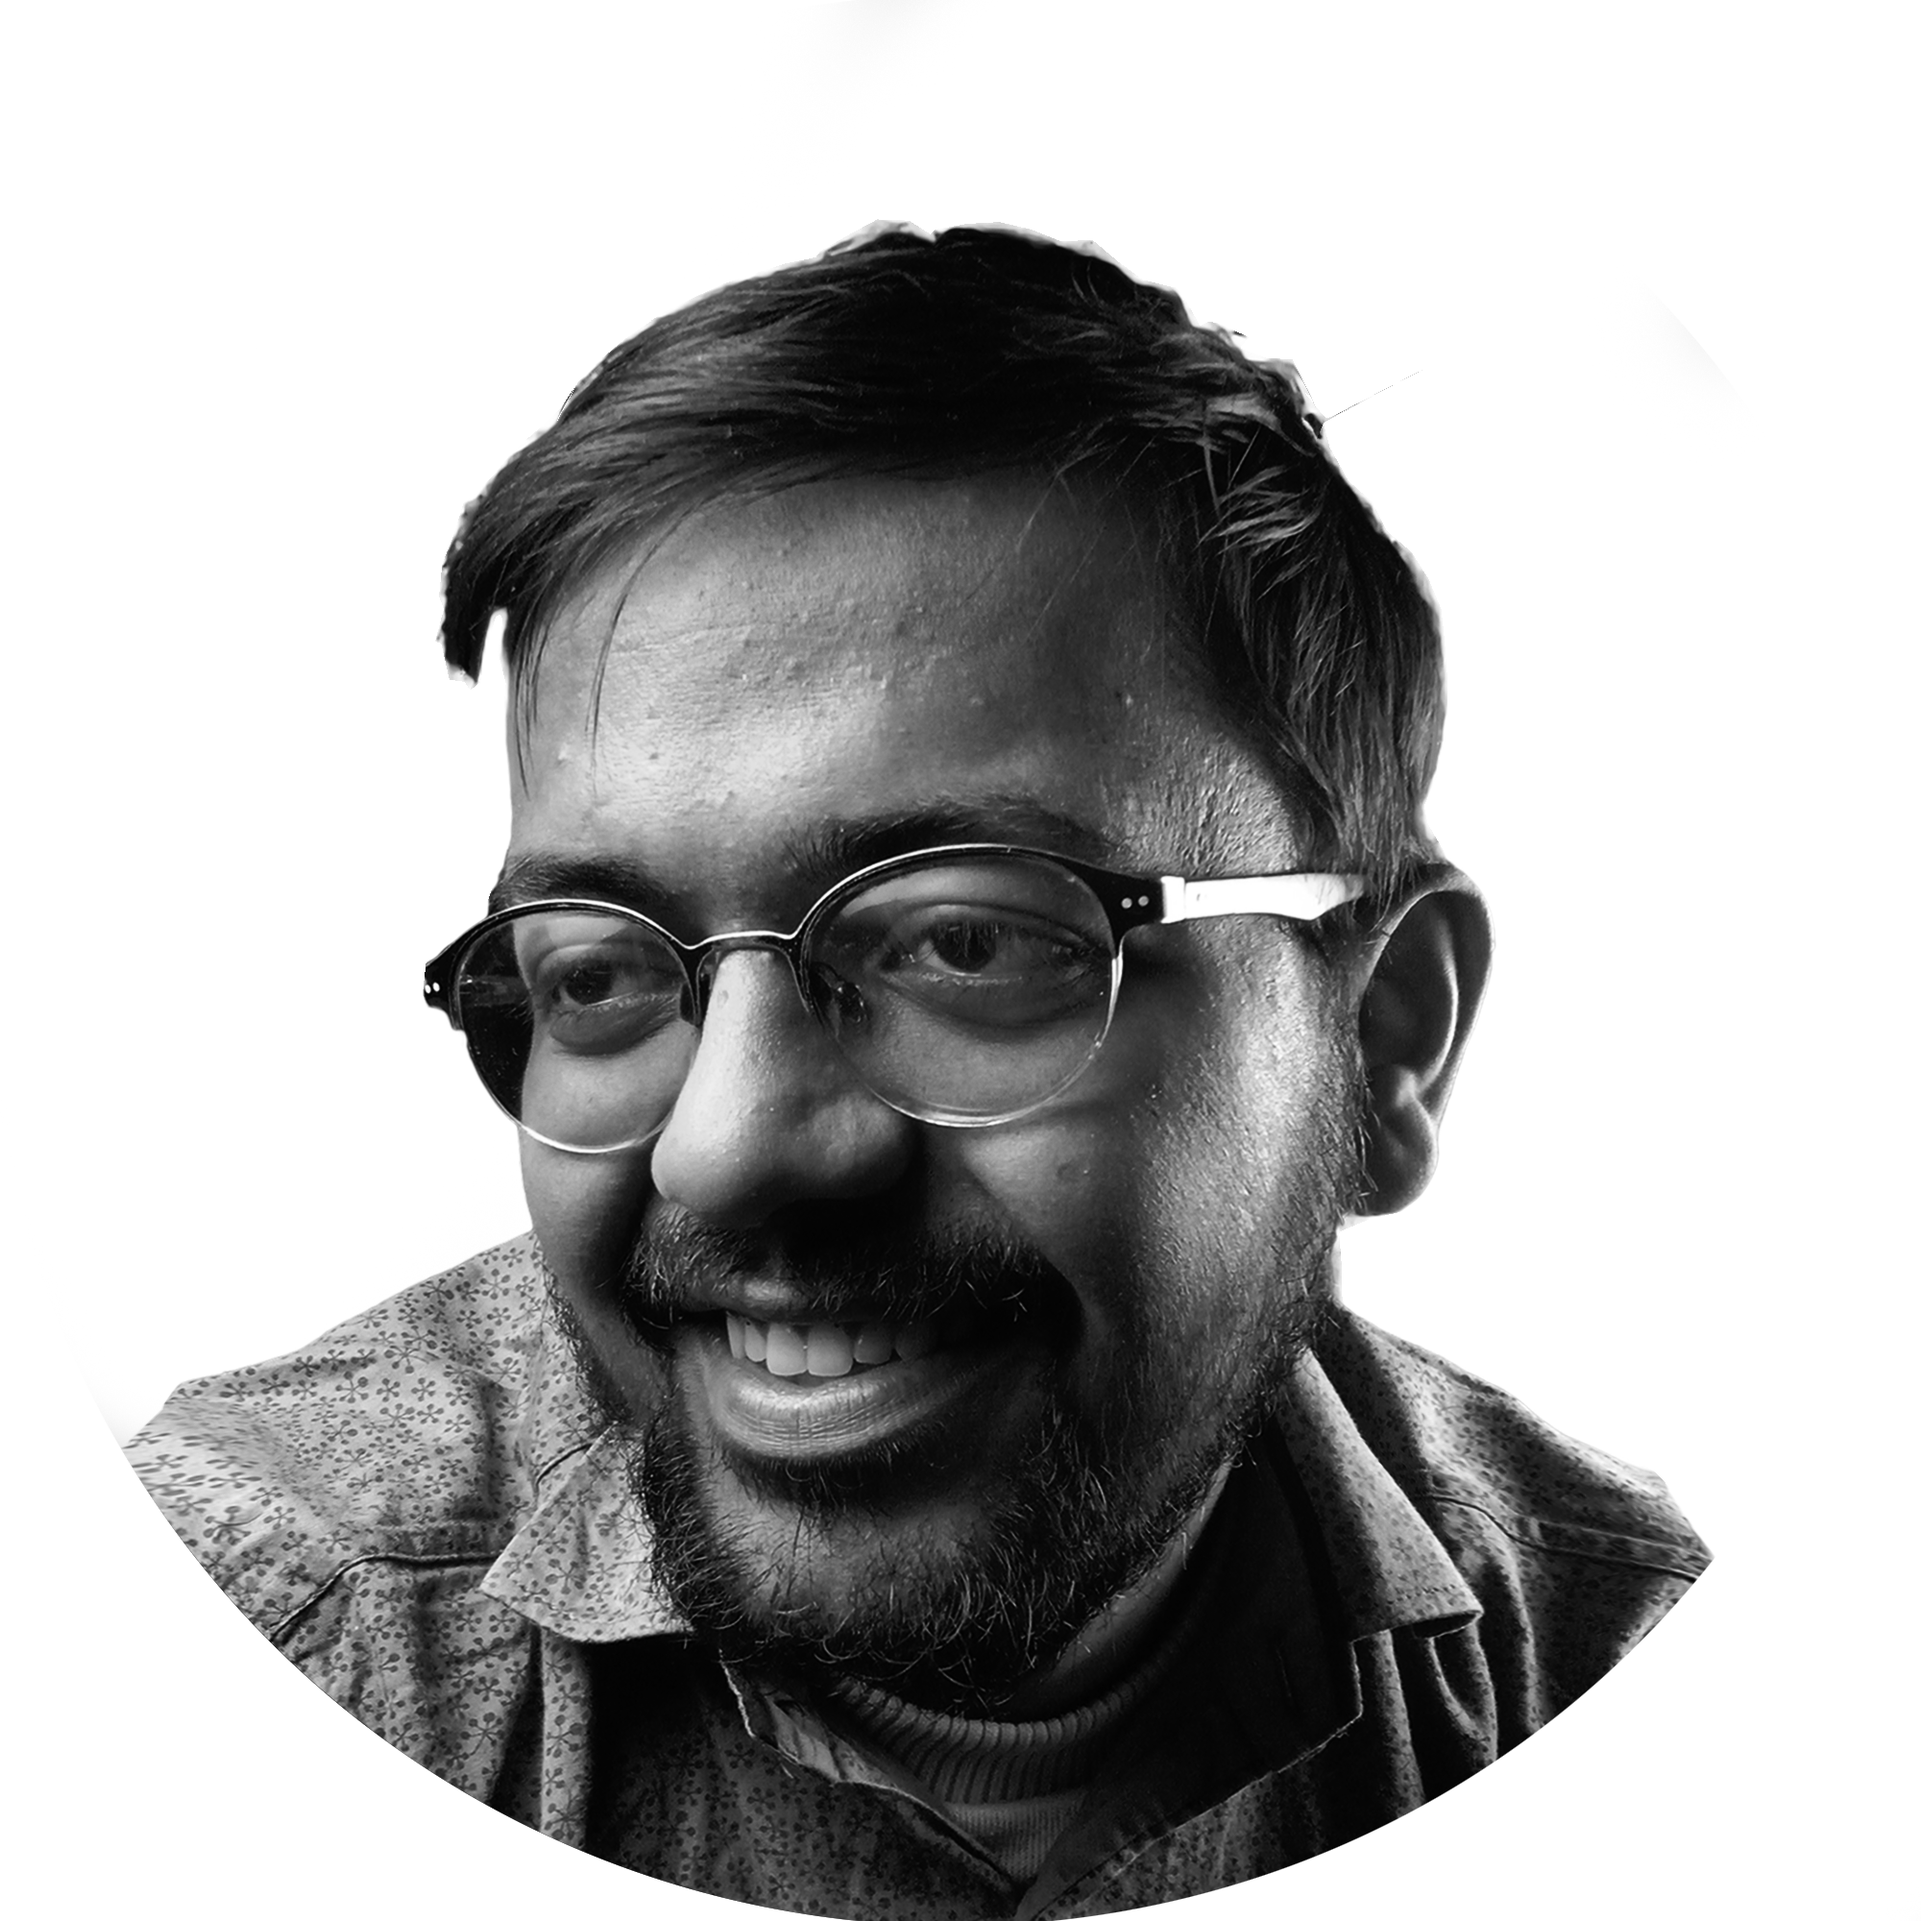
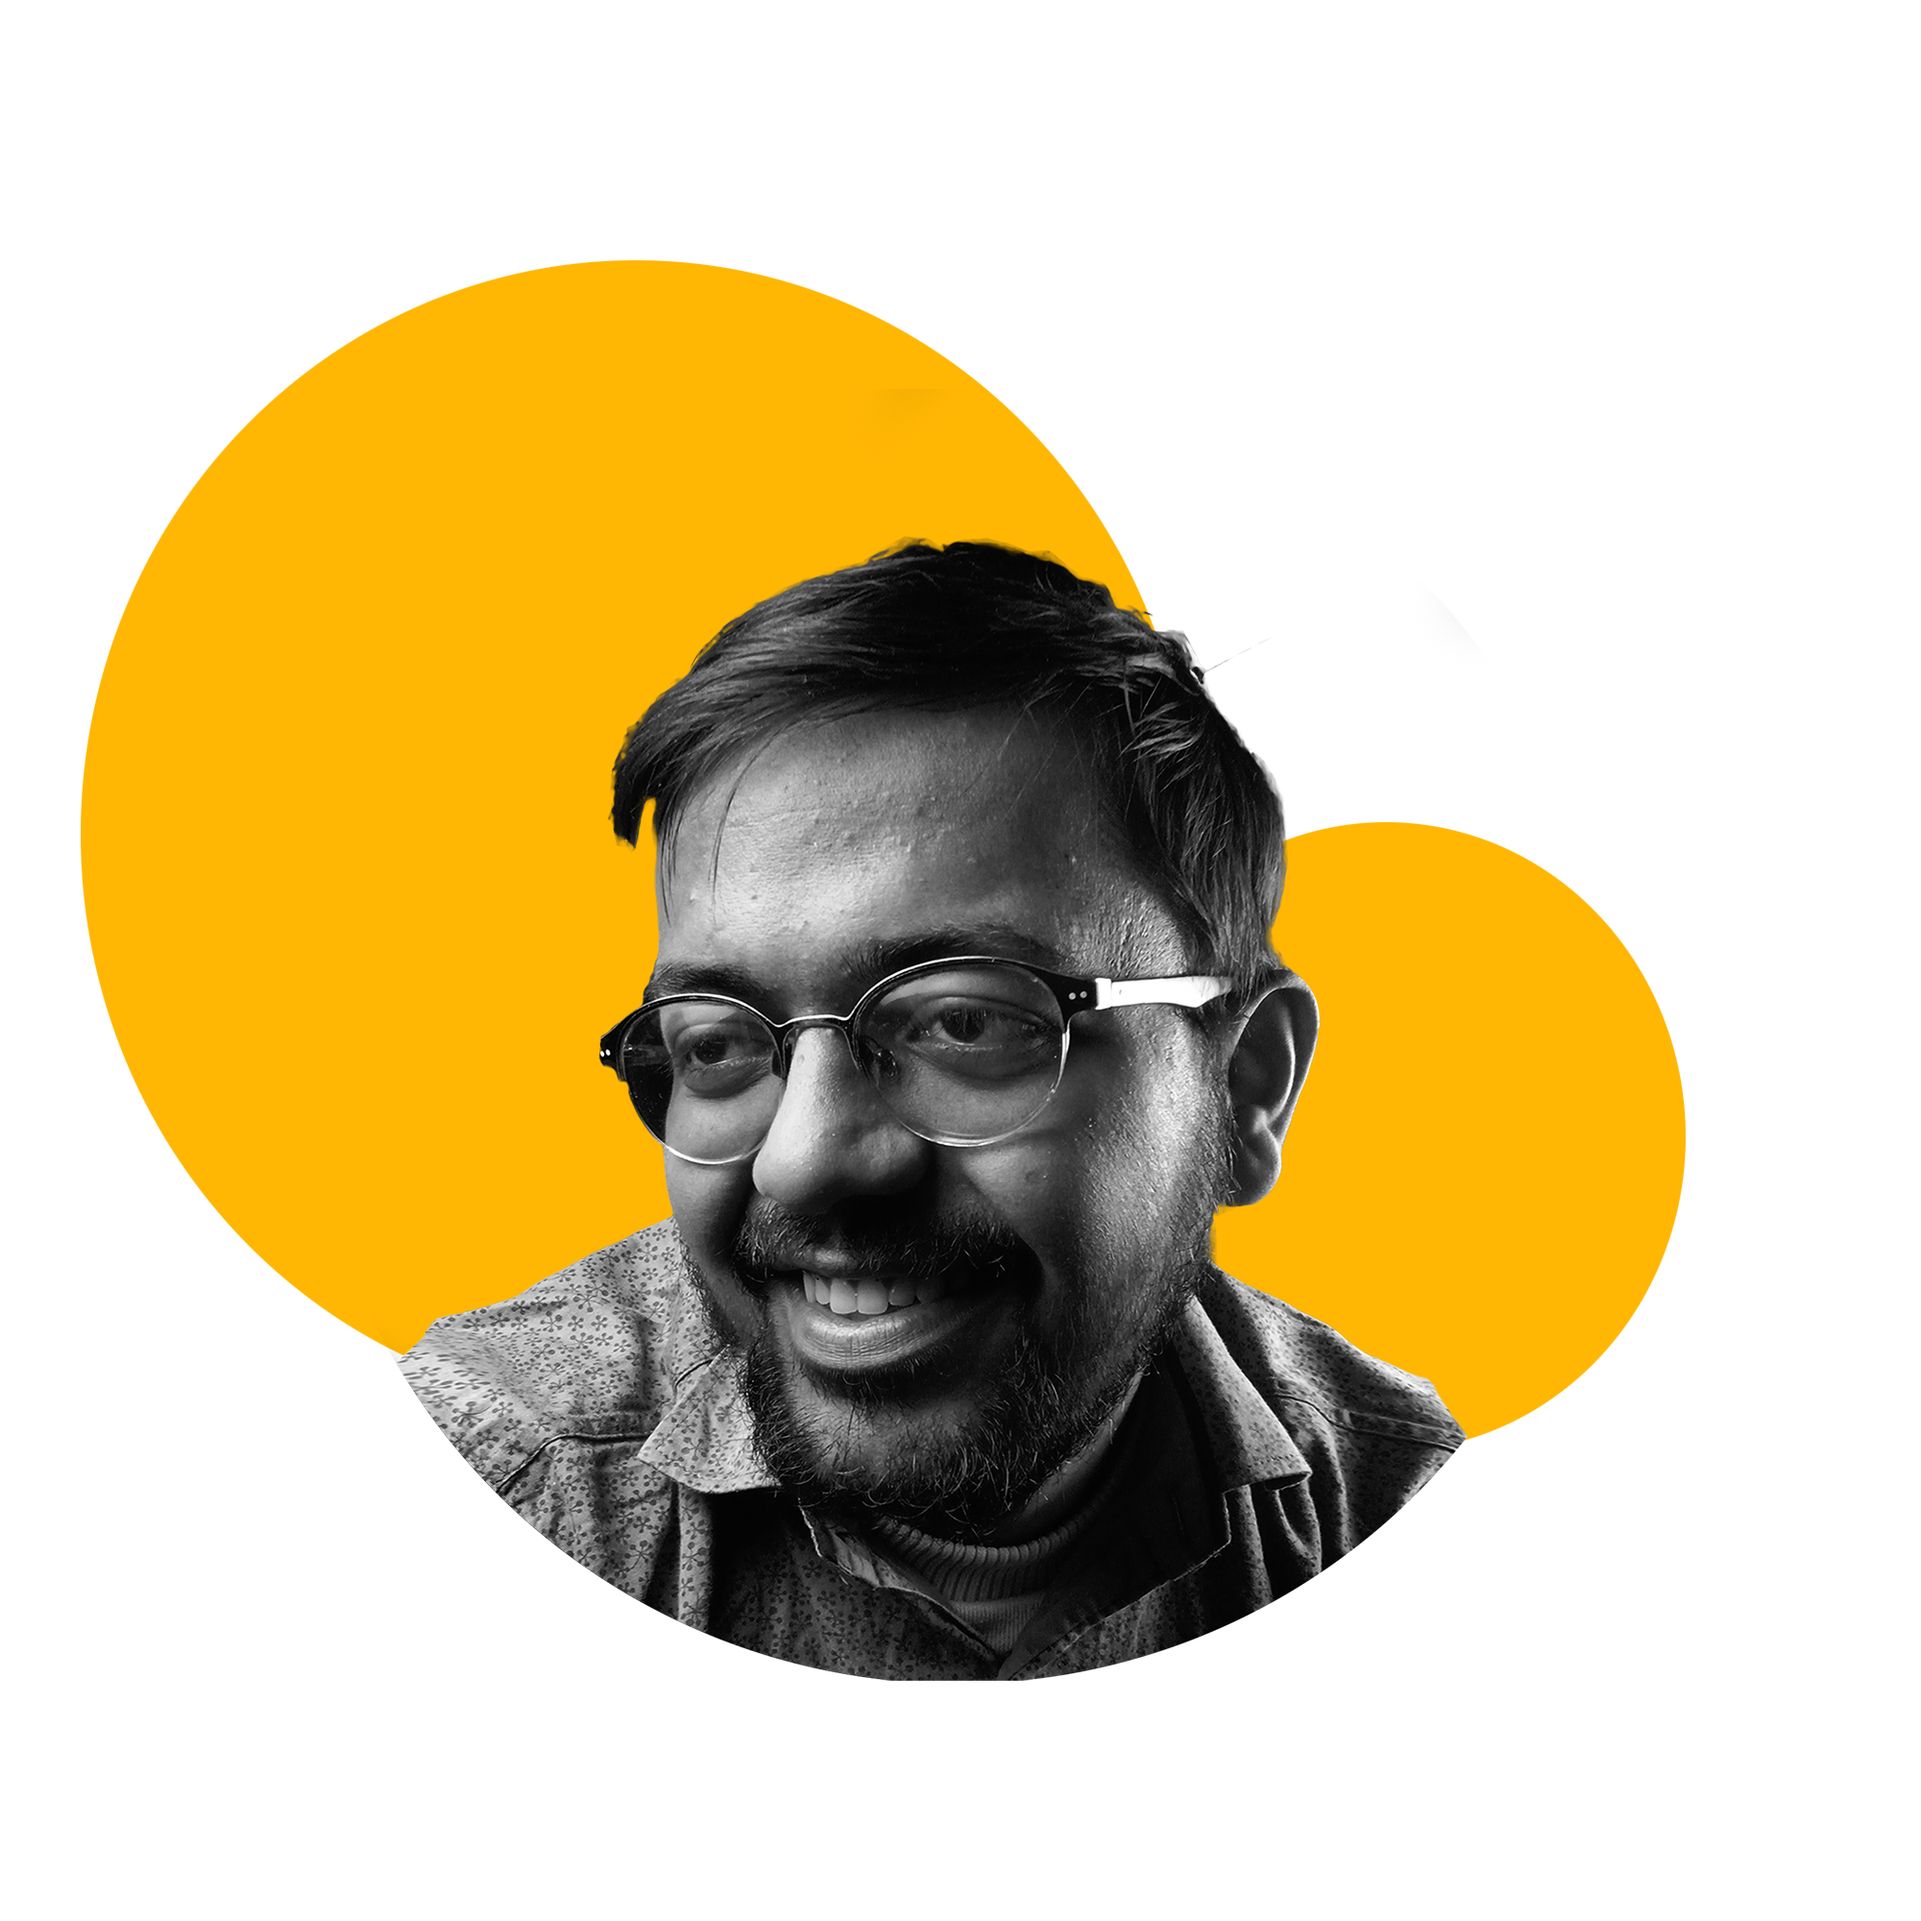
Error correction before deployement

diff --git a/src/app/page.tsx b/src/app/page.tsx
@@ -41,7 +41,7 @@ import {
 
 
 export default function Home() {
-  const [width, setWidth] = useState<number>(window.innerWidth);
+  const [width, setWidth] = useState<number>( typeof window !== 'undefined' ? window.innerWidth : 1024 );
 
   function handleWindowSizeChange() {
       setWidth(window.innerWidth);
@@ -65,7 +65,7 @@ export default function Home() {
         {/* Introduction */}
         <div className=" p-4 max-w-7xl  mx-auto relative z-10  w-full pt-20 md:pt-0">
           <h1 className="text-4xl md:text-7xl font-bold text-center bg-clip-text text-transparent bg-gradient-to-b from-neutral-50 to-neutral-400 bg-opacity-50">
-            Hi! <br /> I'm Ritesh <br /> Web Developer
+            Hi! <br /> I am <span className="bg-clip-text text-transparent bg-gradient-to-b from-yellow-200 to-[#FFB703] bg-opacity-50">Ritesh</span> <br /> Web Developer
           </h1>
           <div className="h-[10rem] w-full bg-black flex flex-col items-center justify-center overflow-hidden rounded-md">
             <div className="w-[40rem] h-40 relative">
@@ -92,20 +92,20 @@ export default function Home() {
         </div>
 
         {/* About Me */}
-        <div className="mx-auto mt-7 flex flex-col gap-5 bg-gradient-to-b from-[#000000] to-[#2D20C3] py-10 px-60 rounded-b-3xl">
+        <div className="mx-auto mt-7 flex flex-col gap-5 lg:bg-gradient-to-b lg:from-[#000000] lg:to-[#2D20C3] lg:py-10 lg:px-60 lg:rounded-b-3xl">
           <div>
-            <h2 className="text-4xl md:text-7xl font-bold text-center bg-clip-text text-transparent bg-gradient-to-b from-neutral-50 to-neutral-400 bg-opacity-50">About Me</h2>
+            <h2 className="text-4xl md:text-7xl font-bold text-center bg-clip-text text-transparent bg-gradient-to-b from-neutral-50 to-neutral-400 bg-opacity-50">About <span className="bg-clip-text text-transparent bg-gradient-to-b from-yellow-200 to-[#FFB703] bg-opacity-50">Me</span></h2>
           </div>
           <div className="flex lg:flex-row md:flex-col gap-28 justify-between">
             <div>
-              <p className="text-neutral-500 max-w-lg mx-auto my-20 text-lg text-left relative z-10">
-                  🚀 Hello, I'm Ritesh, an Electrical Engineering graduate passionate about web development. 
+              <p className="text-neutral-500 max-w-lg mx-auto my-20 lg:text-lg md:text-base text-left relative z-10">
+                  🚀 Hello, I am Ritesh, an Electrical Engineering graduate passionate about web development. 
                   With expertise in HTML5, CSS3, and JavaScript, I specialize in the MERN stack and have created multiple projects using that technology. 
-                  I excel in problem solving, continually learning and solving challenges on GitHub and LeetCode. Let's collaborate and innovate in the exciting world of web development! 🌟
+                  I excel in problem solving, continually learning and solving challenges on GitHub and LeetCode. Let us collaborate and innovate in the exciting world of web development! 🌟
               </p>
             </div>
             <div>
-              <Image src="/profile.png" alt="Hero" width={350} height={350} className="object-cover h-auto" />
+              <Image src="/heroIMAGE.png" alt="Hero" width={500} height={500} className="object-cover h-auto lg:translate-y-6" />
             </div>
           </div>
         </div>
@@ -113,7 +113,7 @@ export default function Home() {
         {/* Tech Stack */}
         <div className="mx-auto mt-14 flex flex-col gap-5">
           <div>
-            <h2 className="text-4xl md:text-7xl font-bold text-center bg-clip-text text-transparent bg-gradient-to-b from-neutral-50 to-neutral-400 bg-opacity-50">Tech Stack</h2>
+            <h2 className="text-4xl md:text-7xl font-bold text-center bg-clip-text text-transparent bg-gradient-to-b from-neutral-50 to-neutral-400 bg-opacity-50"><span className="bg-clip-text text-transparent bg-gradient-to-b from-yellow-200 to-[#FFB703] bg-opacity-50">Tech</span> Stack</h2>
           </div>
           <div className="m-10">
           <Carousel>
@@ -168,7 +168,7 @@ export default function Home() {
         </div>
 
         {/* Projects */}
-        <div className="mx-auto mt-16 flex flex-col gap-10 bg-gradient-to-b from-[#2D20C3] to-[#000000] py-10 px-[450px] rounded-t-3xl">
+        <div className="mx-auto mt-16 flex flex-col gap-10 lg:bg-gradient-to-b lg:from-[#2D20C3] lg:to-[#000000] lg:py-10 lg:px-[450px] lg:rounded-t-3xl">
             <div>
               <h2 className="text-4xl md:text-7xl mx-5 mt-2 mb-0 font-bold text-center bg-clip-text text-transparent bg-gradient-to-b from-neutral-50 to-neutral-400 bg-opacity-50">Projects</h2>
             </div>
@@ -316,7 +316,7 @@ export default function Home() {
         </div>
 
         {/* Connect Me */}
-        <div className="flex flex-row items-center bg-[#FFB703] text-[#2D20C3] rounded-[40px] mt-10">
+        <div className="flex flex-row items-center font-semibold bg-[#FFB703] text-[#2D20C3] rounded-[40px] mt-10">
           <div className="px-6 py-4 rounded-lg">
             <Sheet>
               <SheetTrigger>Contact Me</SheetTrigger>
@@ -324,11 +324,11 @@ export default function Home() {
                 <SheetHeader>
                   <SheetTitle>Contact Me</SheetTitle>
                   <SheetDescription>
-                    <div className="text-xl font-semibold">E-Mail: riteshshami@gmail.com</div>
+                    <div className="text-xl font-semibold"><a href="mailto:riteshshami@gmail.com">Email: riteshshami@gmail.com</a></div>
                   </SheetDescription>
                   <Separator />
                   <SheetDescription>
-                  <div className="text-xl font-semibold">Phone No: +91 9557540607</div>
+                  <div className="text-xl font-semibold"><a href="tel:9557540607">Phone No.: +91 9557540607</a></div>
                   </SheetDescription>
                   <Separator />
                   <SheetDescription>
